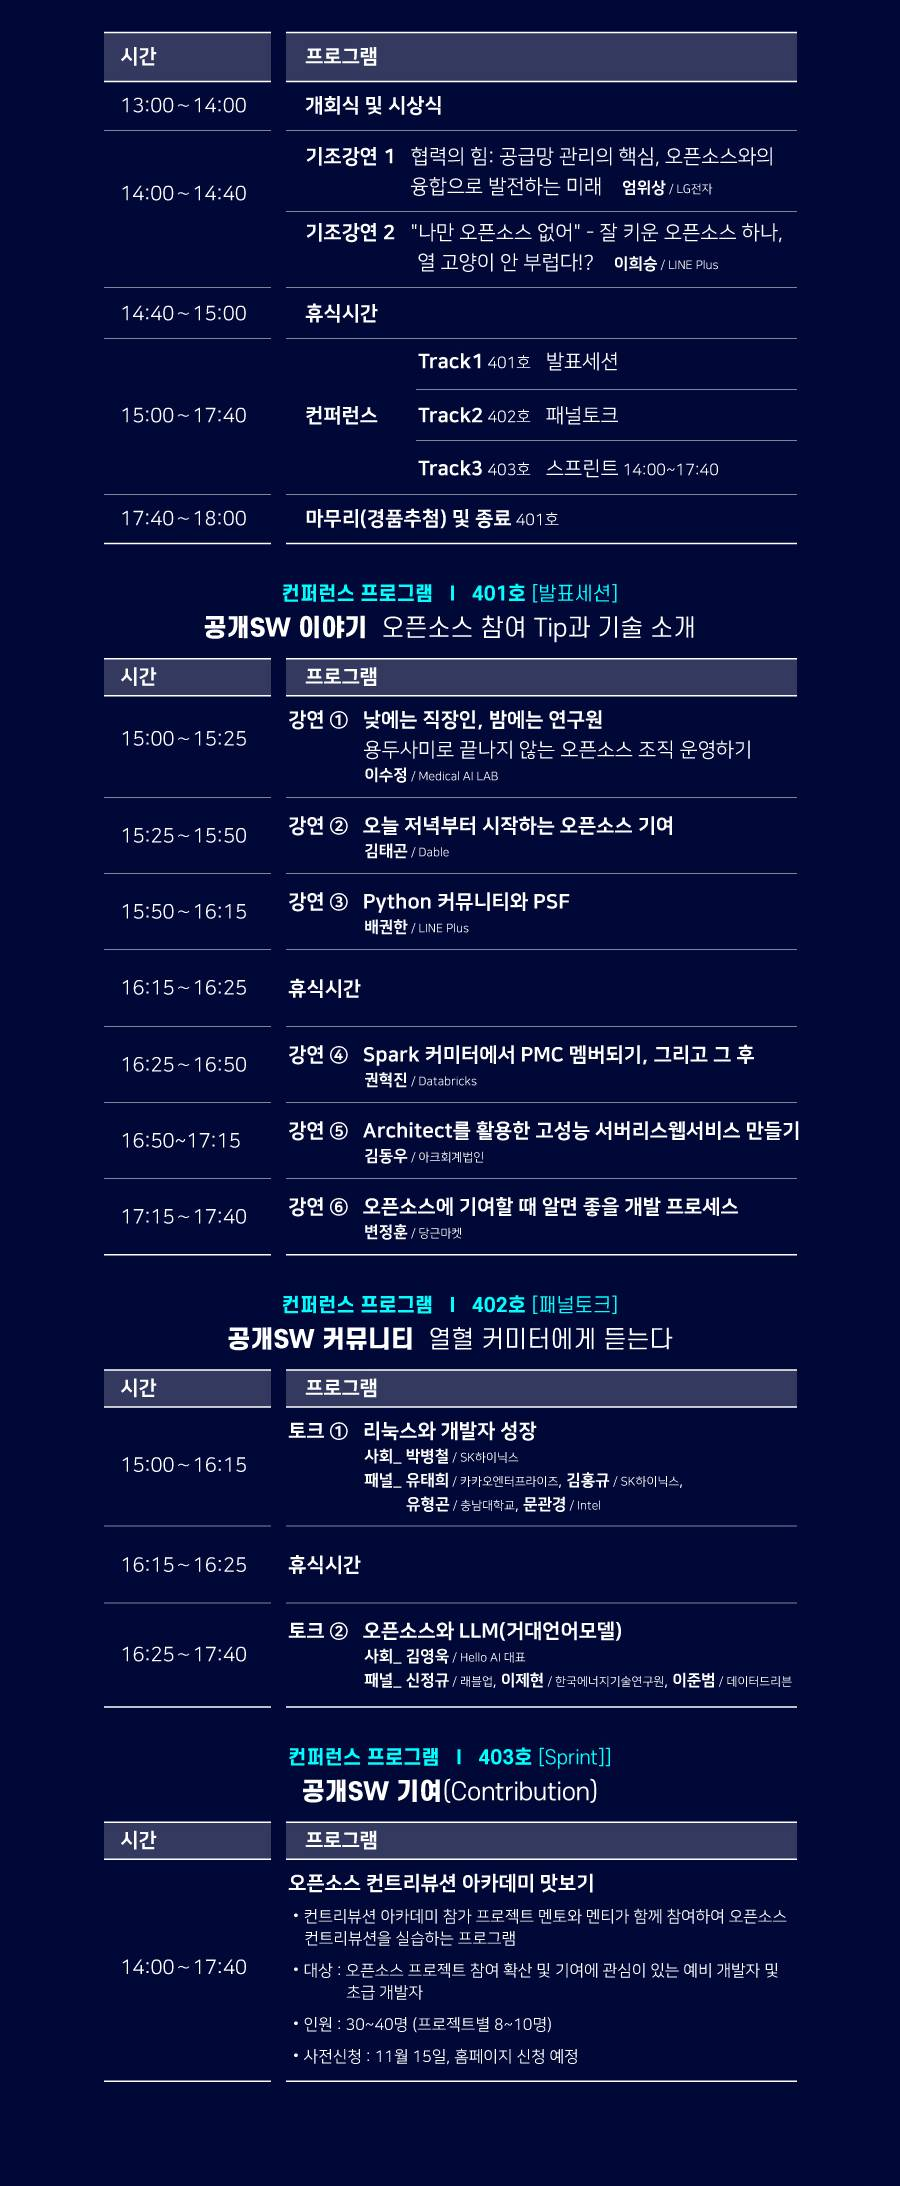
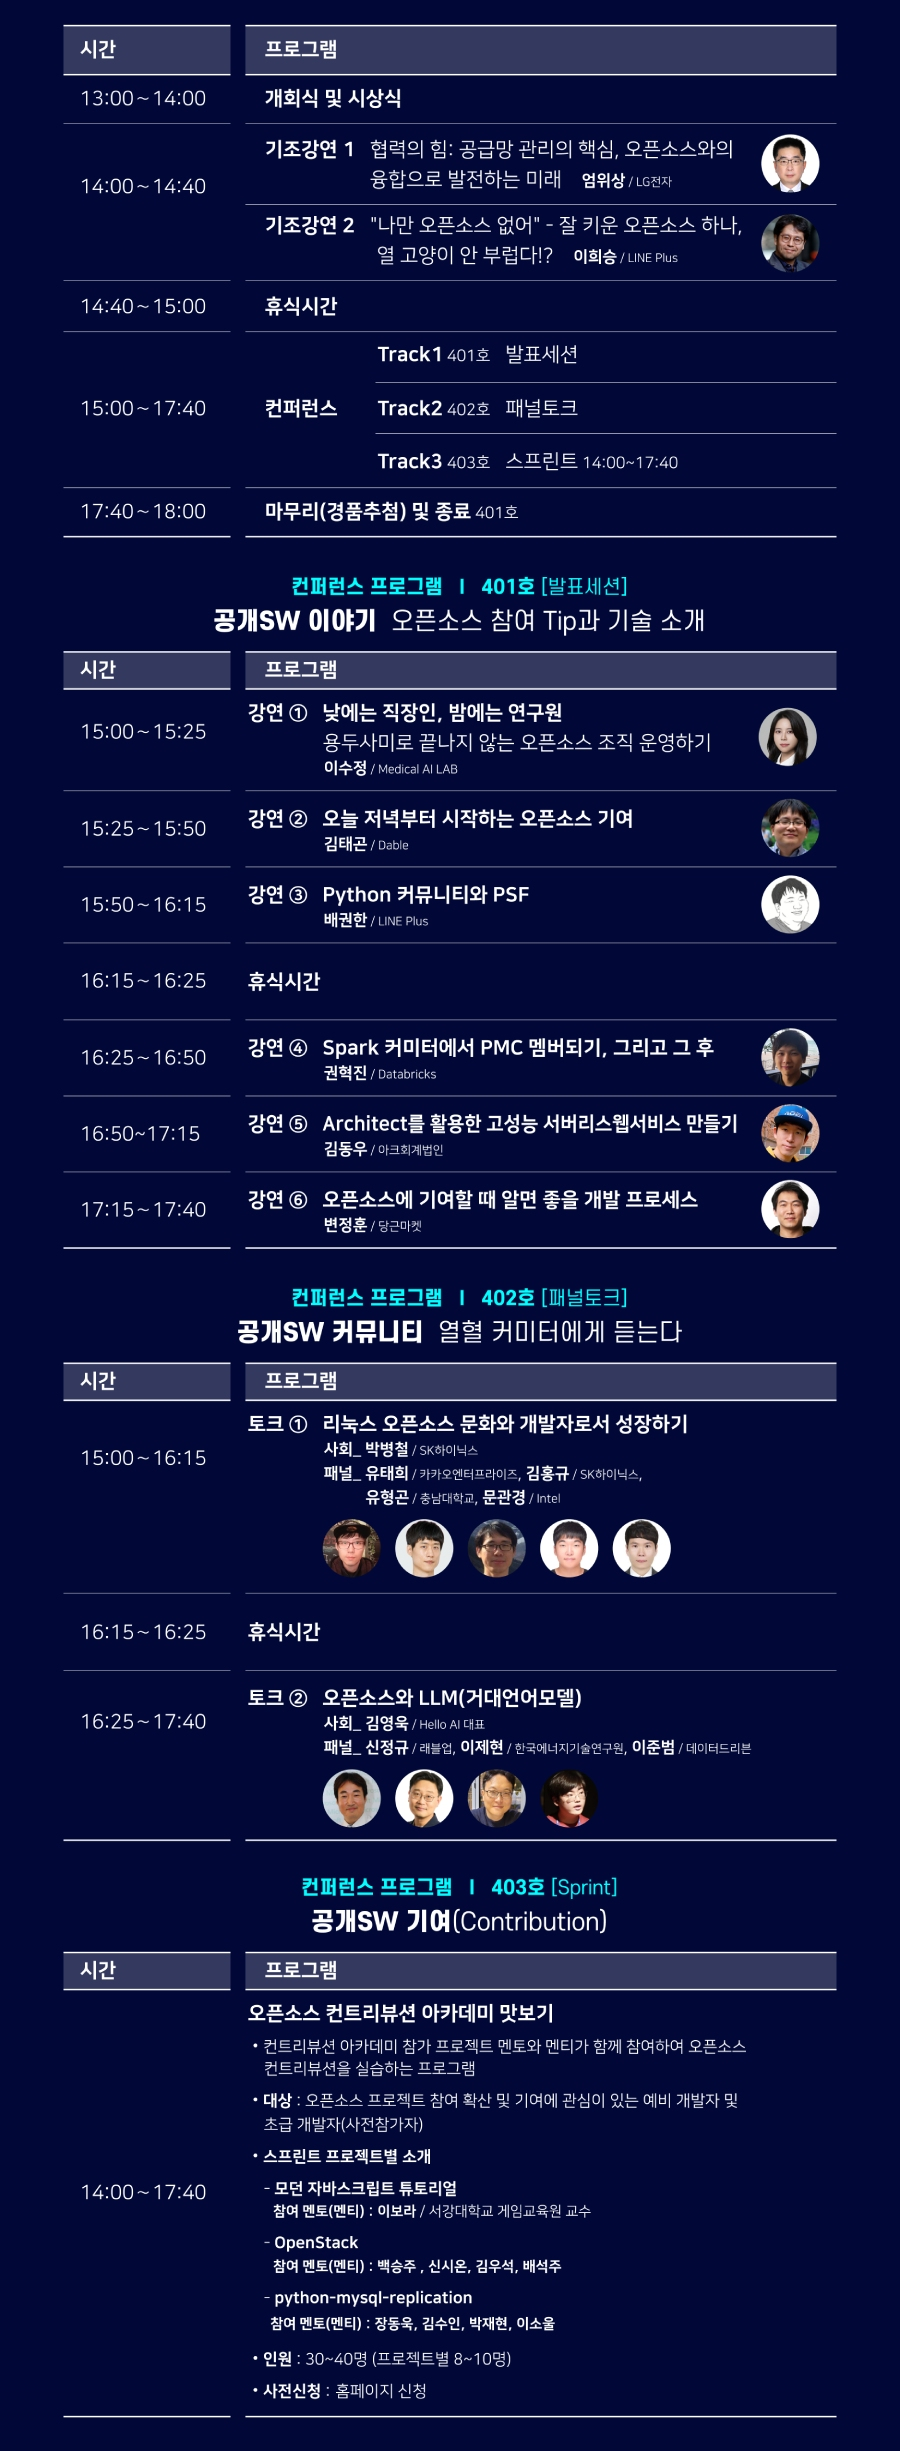
프로그램 이미지 변경, 패널토크 제목 변경

Changed region(s): [[0.0622, 0.0, 0.9333, 0.9954], [0.7778, 0.6844, 0.8089, 0.7155]]

diff --git a/src/pages/Home/HomeArea/HomeArea.js b/src/pages/Home/HomeArea/HomeArea.js
@@ -47,8 +47,8 @@ const HomeArea = () => {
                         <div className="home__content">
                             <Image
                                 maskClassName="imgBox"
-                                src='assets/img/edm/231109/edm-231109-5.jpg' // 이미지 URL을 넣으세요
-                                preview={{src: "assets/img/edm/231109/edm-231109-5.jpg"}} // 클릭할 때만 확대되도록 설정
+                                src='assets/img/openSW/openSW-program.jpg' // 이미지 URL을 넣으세요
+                                preview={{src: "assets/img/openSW/openSW-program.jpg"}} // 클릭할 때만 확대되도록 설정
                             />
                         </div>
                     </div>

diff --git a/src/pages/Speakers/SpeakersArea/SpeakersArea.js b/src/pages/Speakers/SpeakersArea/SpeakersArea.js
@@ -39,7 +39,7 @@ const SpeakersArea = () => {
                     <section>
                         <div className="subTitle subTitle-3">
                             <h3>[패널토크-1]</h3>
-                            <h4>:리눅스와 개발자 성장</h4>
+                            <h4>:리눅스 오픈소스 문화와 개발자로서 성장하기</h4>
                         </div>
                         <div className="profiles">
                             <ProfileCard simple id={8} mainViewId={mainViewId} toggleVisibility={handleToggle} data={speakersData.talk_1[1]} subjType={3}/>
